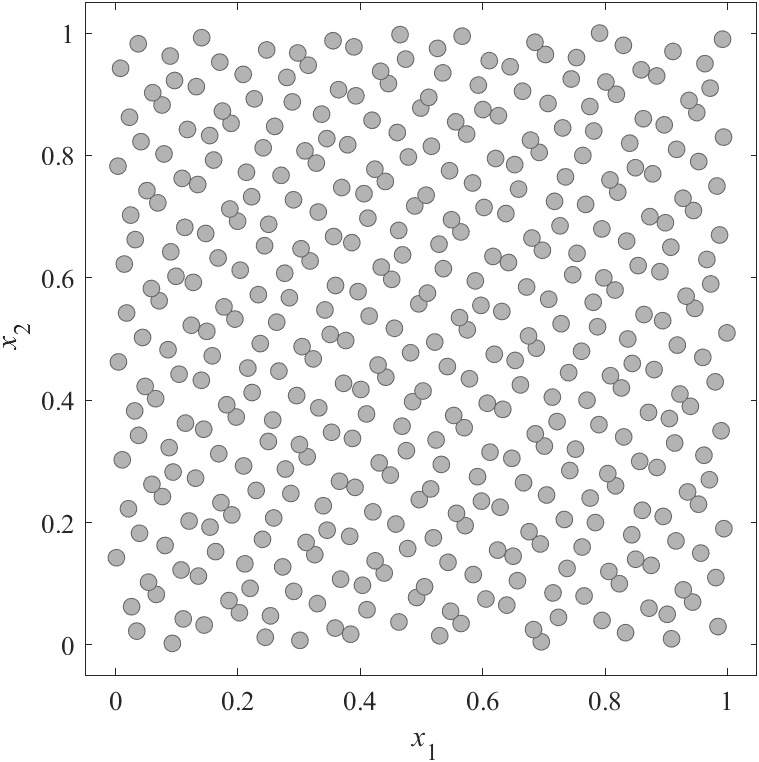
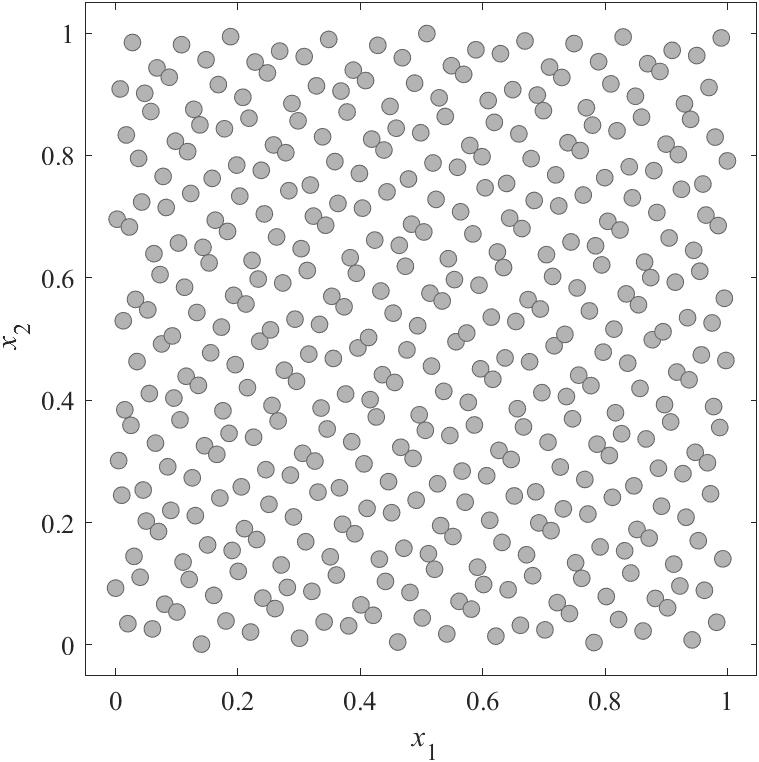
Refactor

Changed region(s): [[0.1212, 0.0302, 0.9697, 0.8753], [0.9394, 0.0302, 0.9697, 0.0604]]

diff --git a/SaveImage/Solution/var2d.m b/SaveImage/Solution/var2d.m
@@ -10,6 +10,7 @@ function var2d(data,name,label)
         'Markerfacecolor',[.7 .7 .7],'Markeredgecolor',[.4 .4 .4]);
     Min = min(data,[],1); Max = max(data,[],1); D = (Max-Min)/20;
     xlim([Min(1)-D(1) Max(1)+D(1)]); ylim([Min(2)-D(2) Max(2)+D(2)]);
+    %xlim([-0.05 1.05]); ylim([-0.05 1.05]); yticks([0 0.2 0.4 0.6 0.8 1]);
     xlabel(label(1)); ylabel(label(2));
     axis square;
     exportgraphics(gcf,[name,'.pdf'],'BackgroundColor','none','ContentType','vector');

diff --git a/RandomNumber/RN.m b/RandomNumber/RN.m
@@ -1,8 +1,7 @@
 function [X,N] = RN(method,M,N)
 %Random Number
     X = feval(method,M,N);
-    W = X;
-    N = size(W,1);
+    N = size(X,1);
 end
 function X = MT(M,N) %Mersenne Twister (used by default stream)
     X = rand([N M]);
@@ -26,5 +25,5 @@ function X = Sobol(M,N)
     X = net(p,N);
 end
 function X = Hammersley(M,N)
-    X = [Halton(M-1,N),(1:N)'/N];
+    X = [linspace(0,1,N)',Halton(M-1,N)];
 end
